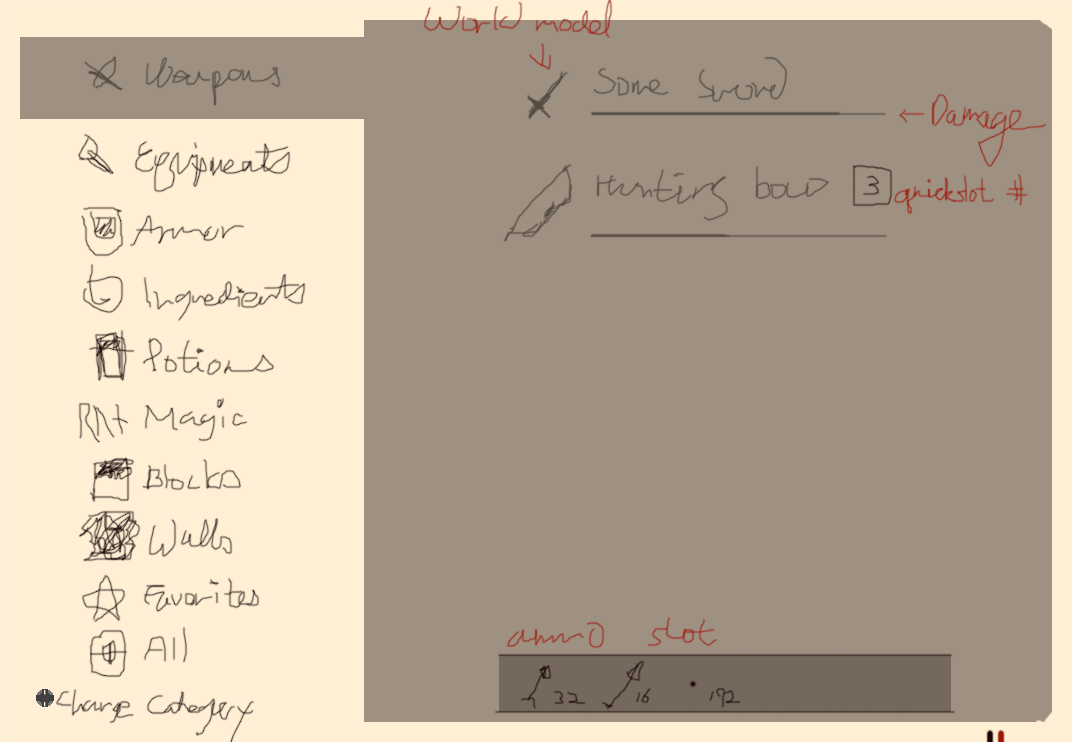
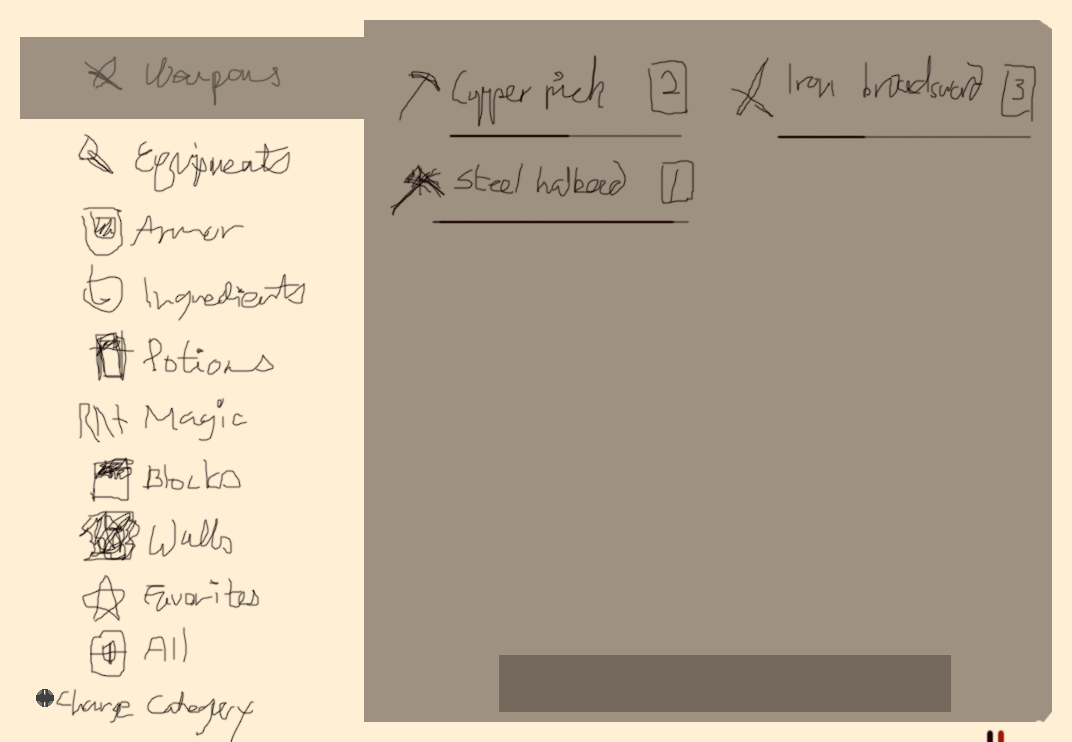
inventory UI wip update Two columns, some marginal spaces to make it look better
Former-commit-id: c26d11e499970280b78193772d29937295916ae2

diff --git a/src/net/torvald/terrarum/StateUITest.kt b/src/net/torvald/terrarum/StateUITest.kt
@@ -25,10 +25,10 @@ class StateUITest : BasicGameState() {
     val inventory = ActorInventory()
 
     init {
-        ui = UIHandler(SimpleUI(inventory))
+        ui = UIHandler(SimpleUI(inventory, 800, Terrarum.HEIGHT - 160))
 
-        ui.posX = 50
-        ui.posY = 30
+        ui.posX = 0
+        ui.posY = 60
         ui.isVisible = true
 
 
@@ -83,15 +83,19 @@ class StateUITest : BasicGameState() {
 
 
 
-private class SimpleUI(val inventory: ActorInventory) : UICanvas {
-    override var width = 700
-    override var height = 480 // multiple of 40 (2 * font.lineHeight)
+private class SimpleUI(
+        val inventory: ActorInventory,
+        override var width: Int,
+        override var height: Int
+) : UICanvas {
     override var handler: UIHandler? = null
     override var openCloseTime: Int = UICanvas.OPENCLOSE_GENERIC
 
     val itemImagePlaceholder = Image("./assets/item_kari_24.tga")
 
     val catButtonsToCatIdent = HashMap<String, String>()
+
+    val backgroundColour = Color(0x1c1c1c)
 
     init {
         catButtonsToCatIdent.put("GAME_INVENTORY_WEAPONS", InventoryItem.Category.WEAPON)
@@ -109,7 +113,11 @@ private class SimpleUI(val inventory: ActorInventory) : UICanvas {
 
     }
 
-    val buttons = UIItemTextButtonList(
+    val itemStripGutterV = 6
+    val itemStripGutterH = 8
+    val itemInterColGutter = 8
+
+    val catButtons = UIItemTextButtonList(
             this,
             arrayOf(
                     "MENU_LABEL_ALL",
@@ -126,31 +134,35 @@ private class SimpleUI(val inventory: ActorInventory) : UICanvas {
             ),
             width = (width / 3 / 100) * 100, // chop to hundreds unit (100, 200, 300, ...) with the black magic of integer division
             height = height,
+            verticalGutter = itemStripGutterH,
             readFromLang = true,
             textAreaWidth = 100,
             defaultSelection = 0,
             iconSpriteSheet = SpriteSheet("./assets/graphics/gui/inventory/category.tga", 20, 20),
             iconSpriteSheetIndices = intArrayOf(9,0,1,2,3,4,5,6,7,8),
-            highlightBackCol = Color(0x202020),
+            highlightBackCol = backgroundColour screen Color(0x0c0c0c),
             highlightBackBlendMode = BlendMode.NORMAL,
             backgroundCol = Color(0x383838),
             kinematic = true
     )
 
-    val itemStripGutterV = 10
-    val itemStripGutterH = 48
-
-    val itemsStripWidth = width - buttons.width - 2 * itemStripGutterH
-    val items = Array(height / (UIItemInventoryElem.height + itemStripGutterV), { UIItemInventoryElem(
-            parentUI = this,
-            posX = buttons.width + itemStripGutterH,
-            posY = it * (UIItemInventoryElem.height + itemStripGutterV),
-            width = itemsStripWidth,
-            item = null,
-            amount = UIItemInventoryElem.UNIQUE_ITEM_HAS_NO_AMOUNT,
-            itemImage = null,
-            backCol = Color(255, 255, 255, 0x30)
-    ) })
+    val itemsStripWidth = ((width - catButtons.width) - (2 * itemStripGutterH + itemInterColGutter)) / 2
+    val items = Array(
+            2 + height / (UIItemInventoryElem.height + itemStripGutterV) * 2, {
+        UIItemInventoryElem(
+                parentUI = this,
+                posX = catButtons.width + if (it % 2 == 0) itemStripGutterH else (itemStripGutterH + itemsStripWidth + itemInterColGutter),
+                posY = itemStripGutterH + it / 2 * (UIItemInventoryElem.height + itemStripGutterV),
+                width = itemsStripWidth,
+                item = null,
+                amount = UIItemInventoryElem.UNIQUE_ITEM_HAS_NO_AMOUNT,
+                itemImage = null,
+                mouseoverBackCol = Color(0x282828),
+                mouseoverBackBlendMode = BlendMode.SCREEN,
+                drawBackOnNull = false
+                //backCol = Color(0x101010),
+                //backBlendMode = BlendMode.SCREEN
+        ) })
     val itemsScrollOffset = 0
 
     var inventorySortList = ArrayList<InventoryPair>()
@@ -159,19 +171,19 @@ private class SimpleUI(val inventory: ActorInventory) : UICanvas {
     private var oldCatSelect = -1
 
     override fun update(gc: GameContainer, delta: Int) {
-        Terrarum.gameLocale = "fiFI" // hot swap this to test
+        Terrarum.gameLocale = "koKR" // hot swap this to test
 
-        buttons.update(gc, delta)
+        catButtons.update(gc, delta)
 
 
         // monitor and check if category selection has been changed
-        if (oldCatSelect != buttons.selectedIndex) {
+        if (oldCatSelect != catButtons.selectedIndex) {
             rebuildList = true
         }
 
 
         if (rebuildList) {
-            val filter = catButtonsToCatIdent[buttons.selectedButton.labelText]
+            val filter = catButtonsToCatIdent[catButtons.selectedButton.labelText]
 
             inventorySortList = ArrayList<InventoryPair>()
 
@@ -207,14 +219,14 @@ private class SimpleUI(val inventory: ActorInventory) : UICanvas {
         }
 
 
-        oldCatSelect = buttons.selectedIndex
+        oldCatSelect = catButtons.selectedIndex
     }
 
     override fun render(gc: GameContainer, g: Graphics) {
-        g.color = Color(0x202020)
+        g.color = backgroundColour
         g.fillRect(0f, 0f, width.toFloat(), height.toFloat())
 
-        buttons.render(gc, g)
+        catButtons.render(gc, g)
 
 
         items.forEach {

diff --git a/src/net/torvald/terrarum/ui/UIItemTextButtonList.kt b/src/net/torvald/terrarum/ui/UIItemTextButtonList.kt
@@ -18,6 +18,7 @@ class UIItemTextButtonList(
         labelsList: Array<String>,
         override val width: Int,
         override val height: Int,
+        val verticalGutter: Int = 0,
         val readFromLang: Boolean = false,
         val defaultSelection: Int = 0,
 
@@ -27,13 +28,13 @@ class UIItemTextButtonList(
         val iconSpriteSheetIndices: IntArray? = null,
 
         // copied directly from UIItemTextButton
-        val activeCol: Color = Color.white,
+        val activeCol: Color = Color(0xffffff),
         val activeBackCol: Color = Color(0,0,0,0),
         val activeBackBlendMode: String = BlendMode.NORMAL,
         val highlightCol: Color = Color(0x00f8ff),
         val highlightBackCol: Color = Color(0xb0b0b0),
         val highlightBackBlendMode: String = BlendMode.MULTIPLY,
-        val inactiveCol: Color = Color(0xc8c8c8),
+        val inactiveCol: Color = Color(0xc0c0c0),
         val backgroundCol: Color = Color(0,0,0,0),
         val backgroundBlendMode: String = BlendMode.NORMAL,
         val kinematic: Boolean = false // more "kinetic" movement of selector
@@ -54,7 +55,7 @@ class UIItemTextButtonList(
             UIItemTextButton(
                     parentUI, s,
                     posX = 0,
-                    posY = (height / labelsList.size.minus(1).toFloat() * index).roundInt(),
+                    posY = verticalGutter + ((height - 2 * verticalGutter) / labelsList.size.minus(1).toFloat() * index).roundInt(),
                     width = width,
                     readFromLang = readFromLang,
                     activeCol = activeCol,
@@ -72,12 +73,16 @@ class UIItemTextButtonList(
             UIItemTextButton(
                     parentUI, s,
                     posX = 0,
-                    posY = (height / labelsList.size.minus(1).toFloat() * index).roundInt(),
+                    posY = verticalGutter + ((height - 2 * verticalGutter) / labelsList.size.minus(1).toFloat() * index).roundInt(),
                     width = width,
                     readFromLang = readFromLang,
-                    activeBackCol = Color(0,0,0,0),
-                    activeBackBlendMode = BlendMode.NORMAL,
-                    highlightBackCol = Color(0,0,0,0),
+                    activeCol = activeCol,
+                    activeBackCol = activeBackCol,
+                    activeBackBlendMode = activeBackBlendMode,
+                    highlightCol = highlightCol,
+                    highlightBackCol = activeBackCol, // we are using custom highlighter
+                    highlightBackBlendMode = activeBackBlendMode, // we are using custom highlighter
+                    inactiveCol = inactiveCol,
                     preGapX = pregap,
                     postGapX = postgap
             )
@@ -156,6 +161,8 @@ class UIItemTextButtonList(
                 )
             }
         }
+
+        g.color = backgroundCol
 
     }
 

diff --git a/src/net/torvald/terrarum/UIItemInventoryElem.kt b/src/net/torvald/terrarum/UIItemInventoryElem.kt
@@ -23,10 +23,13 @@ class UIItemInventoryElem(
         var item: InventoryItem?,
         var amount: Int,
         var itemImage: Image?,
+        val mouseoverBackCol: Color = Color(0,0,0,0),
+        val mouseoverBackBlendMode: String = BlendMode.NORMAL,
         val backCol: Color = Color(0,0,0,0),
-        val backColBlendMode: String = BlendMode.NORMAL,
+        val backBlendMode: String = BlendMode.NORMAL,
         var quickslot: Int? = null,
-        var equippedSlot: Int? = null
+        var equippedSlot: Int? = null,
+        val drawBackOnNull: Boolean = true
 ) : UIItem(parentUI) {
 
     companion object {
@@ -38,7 +41,7 @@ class UIItemInventoryElem(
 
     private val imgOffset: Float
         get() = (this.height - itemImage!!.height).div(2).toFloat() // to snap to the pixel grid
-    private val textOffsetX = 52f
+    private val textOffsetX = 50f
     private val textOffsetY = 8f
 
 
@@ -55,17 +58,23 @@ class UIItemInventoryElem(
     }
 
     override fun render(gc: GameContainer, g: Graphics) {
-        if (item != null && itemImage != null) {
-            g.font = Terrarum.fontGame
 
+        g.font = Terrarum.fontGame
 
+        if (item != null || drawBackOnNull) {
             if (mouseUp) {
-                BlendMode.resolve(backColBlendMode)
-                g.color = backCol
-                g.fillRect(posX.toFloat(), posY.toFloat(), width.toFloat(), height.toFloat())
+                BlendMode.resolve(mouseoverBackBlendMode)
+                g.color = mouseoverBackCol
             }
+            else {
+                BlendMode.resolve(backBlendMode)
+                g.color = backCol
+            }
+            g.fillRect(posX.toFloat(), posY.toFloat(), width.toFloat(), height.toFloat())
+        }
 
 
+        if (item != null && itemImage != null) {
             blendNormal()
 
             g.drawImage(itemImage!!, posX + imgOffset, posY + imgOffset)
@@ -80,7 +89,7 @@ class UIItemInventoryElem(
 
 
             // durability metre
-            val barFullLen = (width - 20f) - textOffsetX
+            val barFullLen = (width - 8f) - textOffsetX
             val barOffset = posX + textOffsetX
             if (item!!.maxDurability > 0.0) {
                 g.color = durabilityBack

diff --git a/src/net/torvald/terrarum/tileproperties/TilePropCSV.kt b/src/net/torvald/terrarum/tileproperties/TilePropCSV.kt
@@ -99,7 +99,7 @@ object TilePropCSV {
  "15";  "2";"TILE_SANDSTONE_RED"       ; "33587232";      "25";"1900";"rock";    "0";    "1";   "1";         "0";  "15";   "2";   "0";   "0"; "N/A"; "0";"16"
  "15";  "3";"TILE_SANDSTONE_DESERT"    ; "33587232";      "25";"1900";"rock";    "0";    "1";   "1";         "0";  "15";   "3";   "0";   "0"; "N/A"; "0";"16"
  "15";  "4";"TILE_SANDSTONE_BLACK"     ; "33587232";      "25";"1900";"rock";    "0";    "1";   "1";         "0";  "15";   "4";   "0";   "0"; "N/A"; "0";"16"
- "15";  "5";"TILE_SANDSTONE_BLACK"     ; "33587232";      "25";"1900";"rock";    "0";    "1";   "1";         "0";  "15";   "5";   "0";   "0"; "N/A"; "0";"16"
+ "15";  "5";"TILE_SANDSTONE_GREEN"     ; "33587232";      "25";"1900";"rock";    "0";    "1";   "1";         "0";  "15";   "5";   "0";   "0"; "N/A"; "0";"16"
  "16";  "0";"TILE_LANTERN_IRON_REGULAR";  "8396808";       "0"; "N/A";"fxtr";    "0";    "0";   "0"; "267553792";  "16";   "0";   "0";   "0"; "N/A"; "0";"16"
  "16";  "1";"TILE_SUNSTONE"            ; "33587232";       "0"; "N/A";"rock";    "0";    "1";   "0";         "0";  "16";   "1";   "0";   "2"; "N/A"; "0";"16"
  "16";  "2";"TILE_DAYLIGHT_CAPACITOR"  ; "33587232";       "0"; "N/A";"glas";    "0";    "1";   "0";         "0";  "16";   "2";   "0";   "3"; "N/A"; "0";"16"

diff --git a/src/net/torvald/terrarum/Terrarum.kt b/src/net/torvald/terrarum/Terrarum.kt
@@ -635,3 +635,10 @@ operator fun Color.times(other: Color) = Color(
         this.b * other.b,
         this.a * other.a
 )
+
+operator fun Color.minus(other: Color) = Color(
+    this.r - other.r,
+    this.g - other.g,
+    this.b - other.b,
+    this.a - other.a
+)
